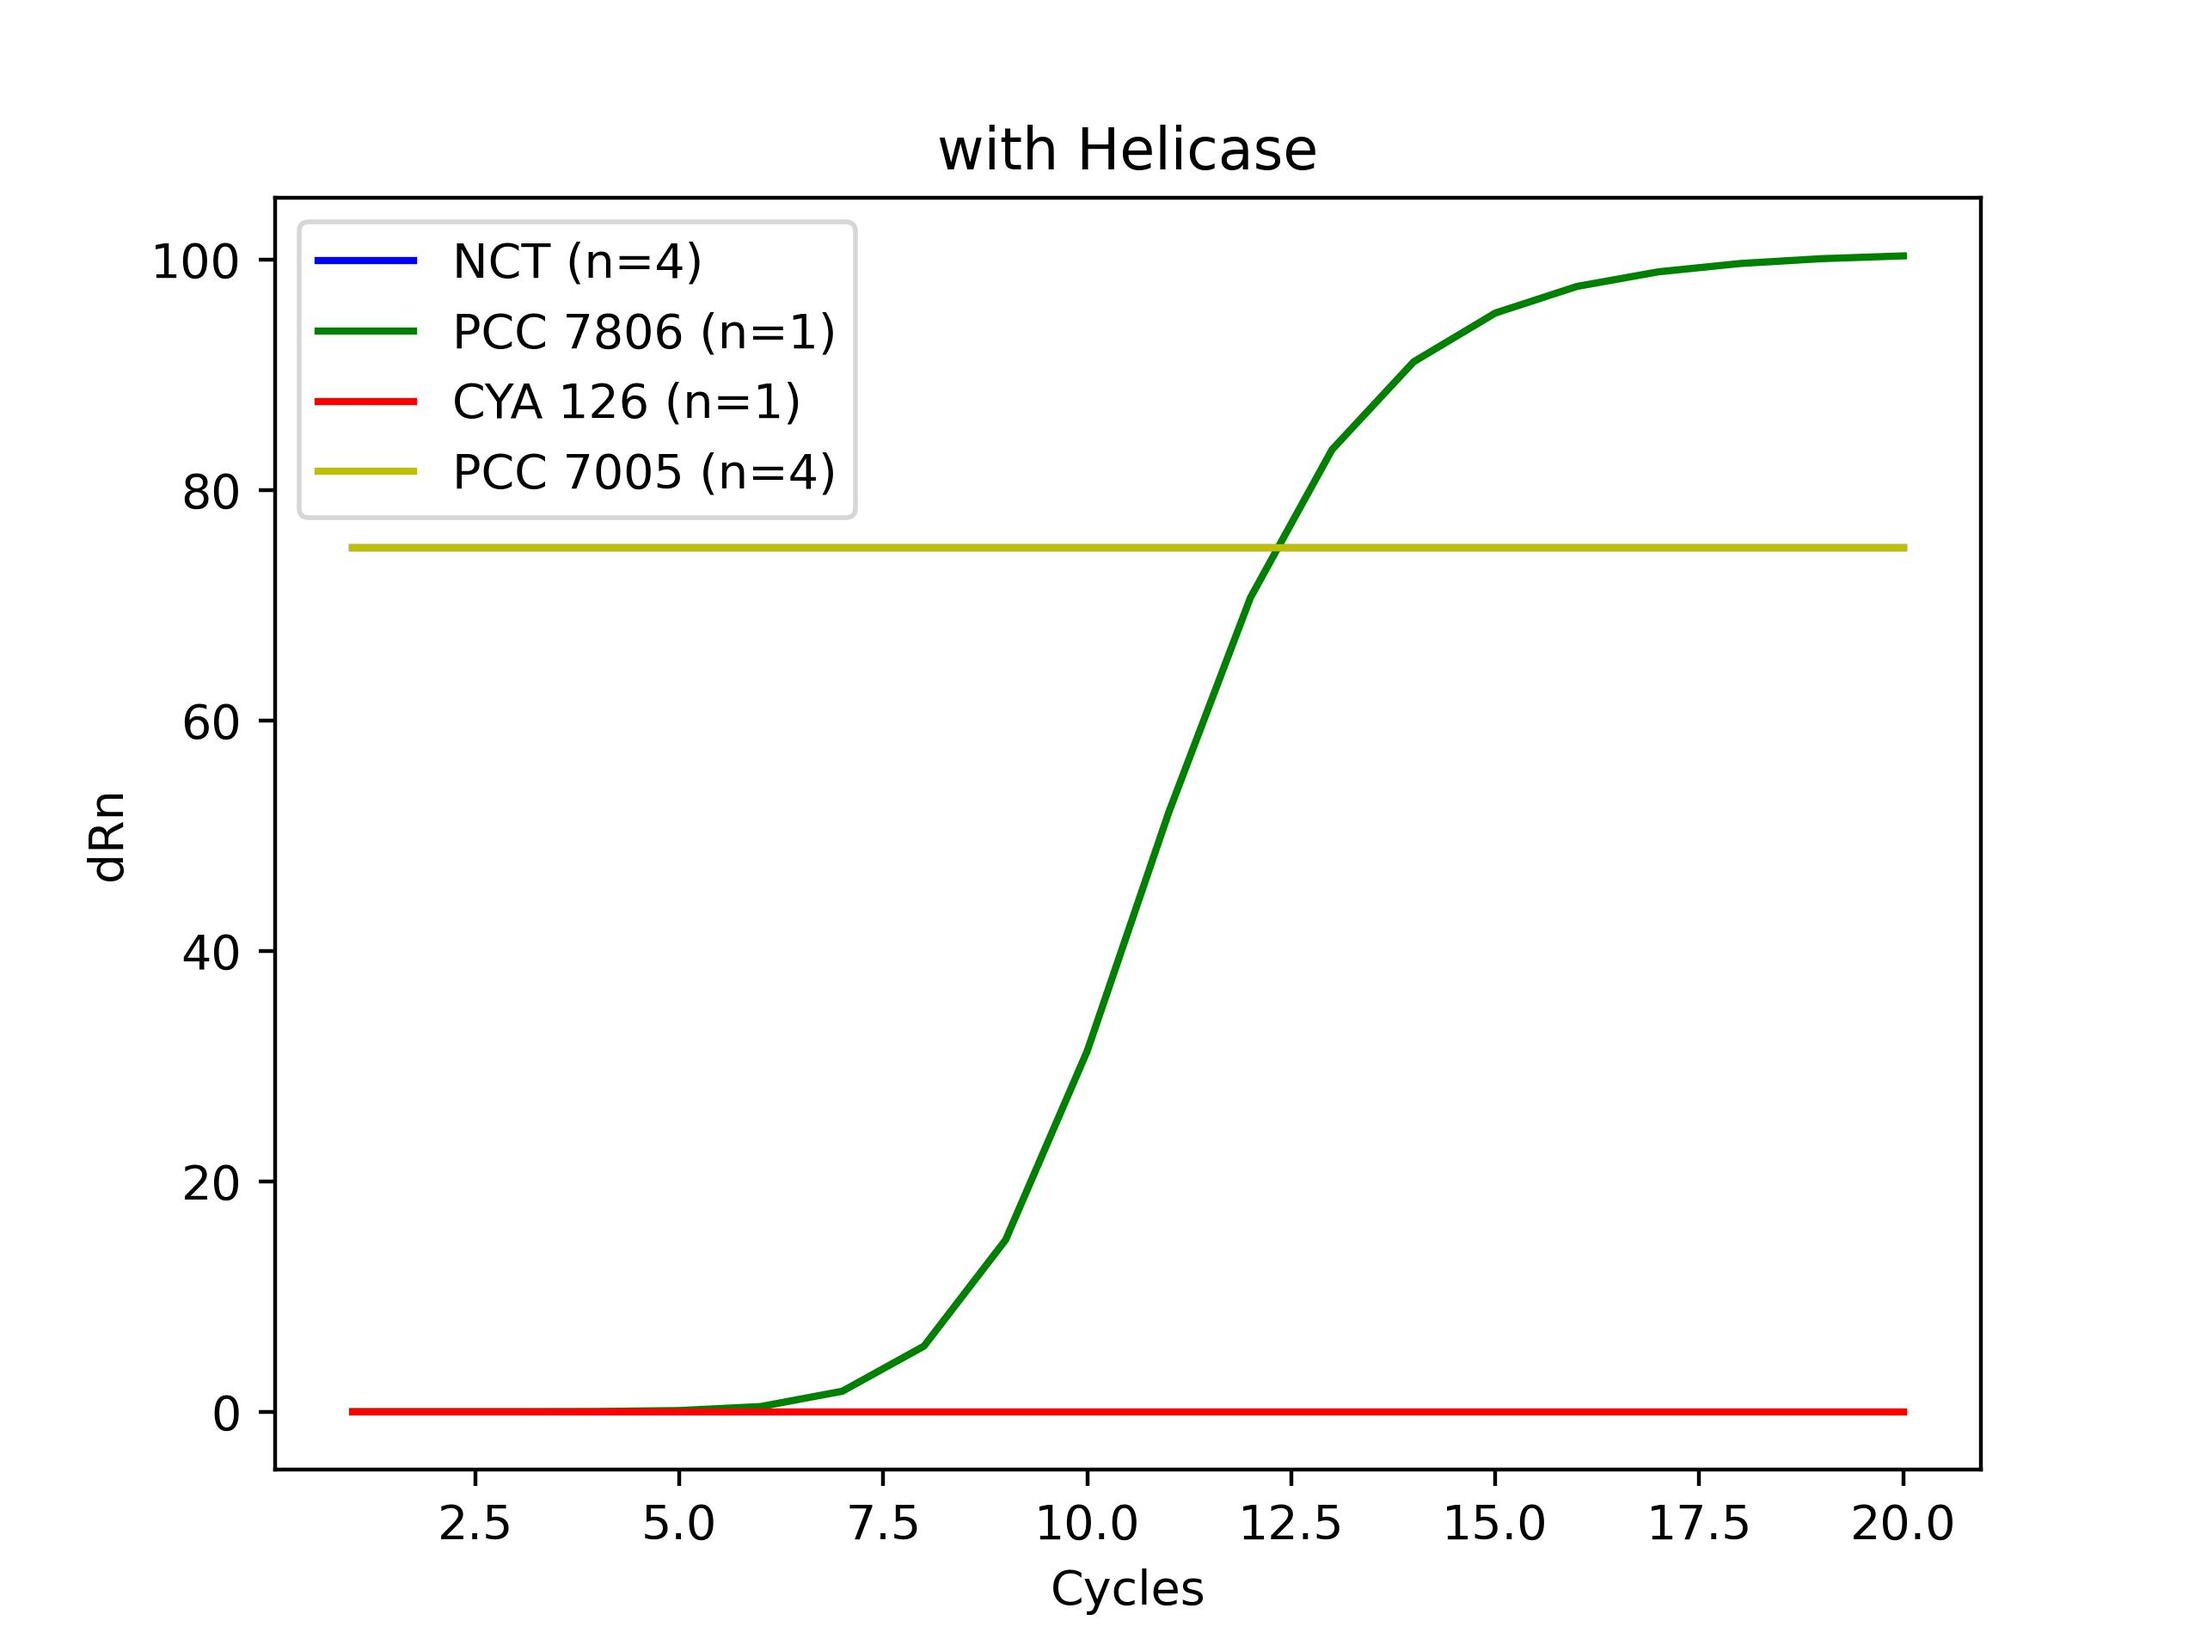
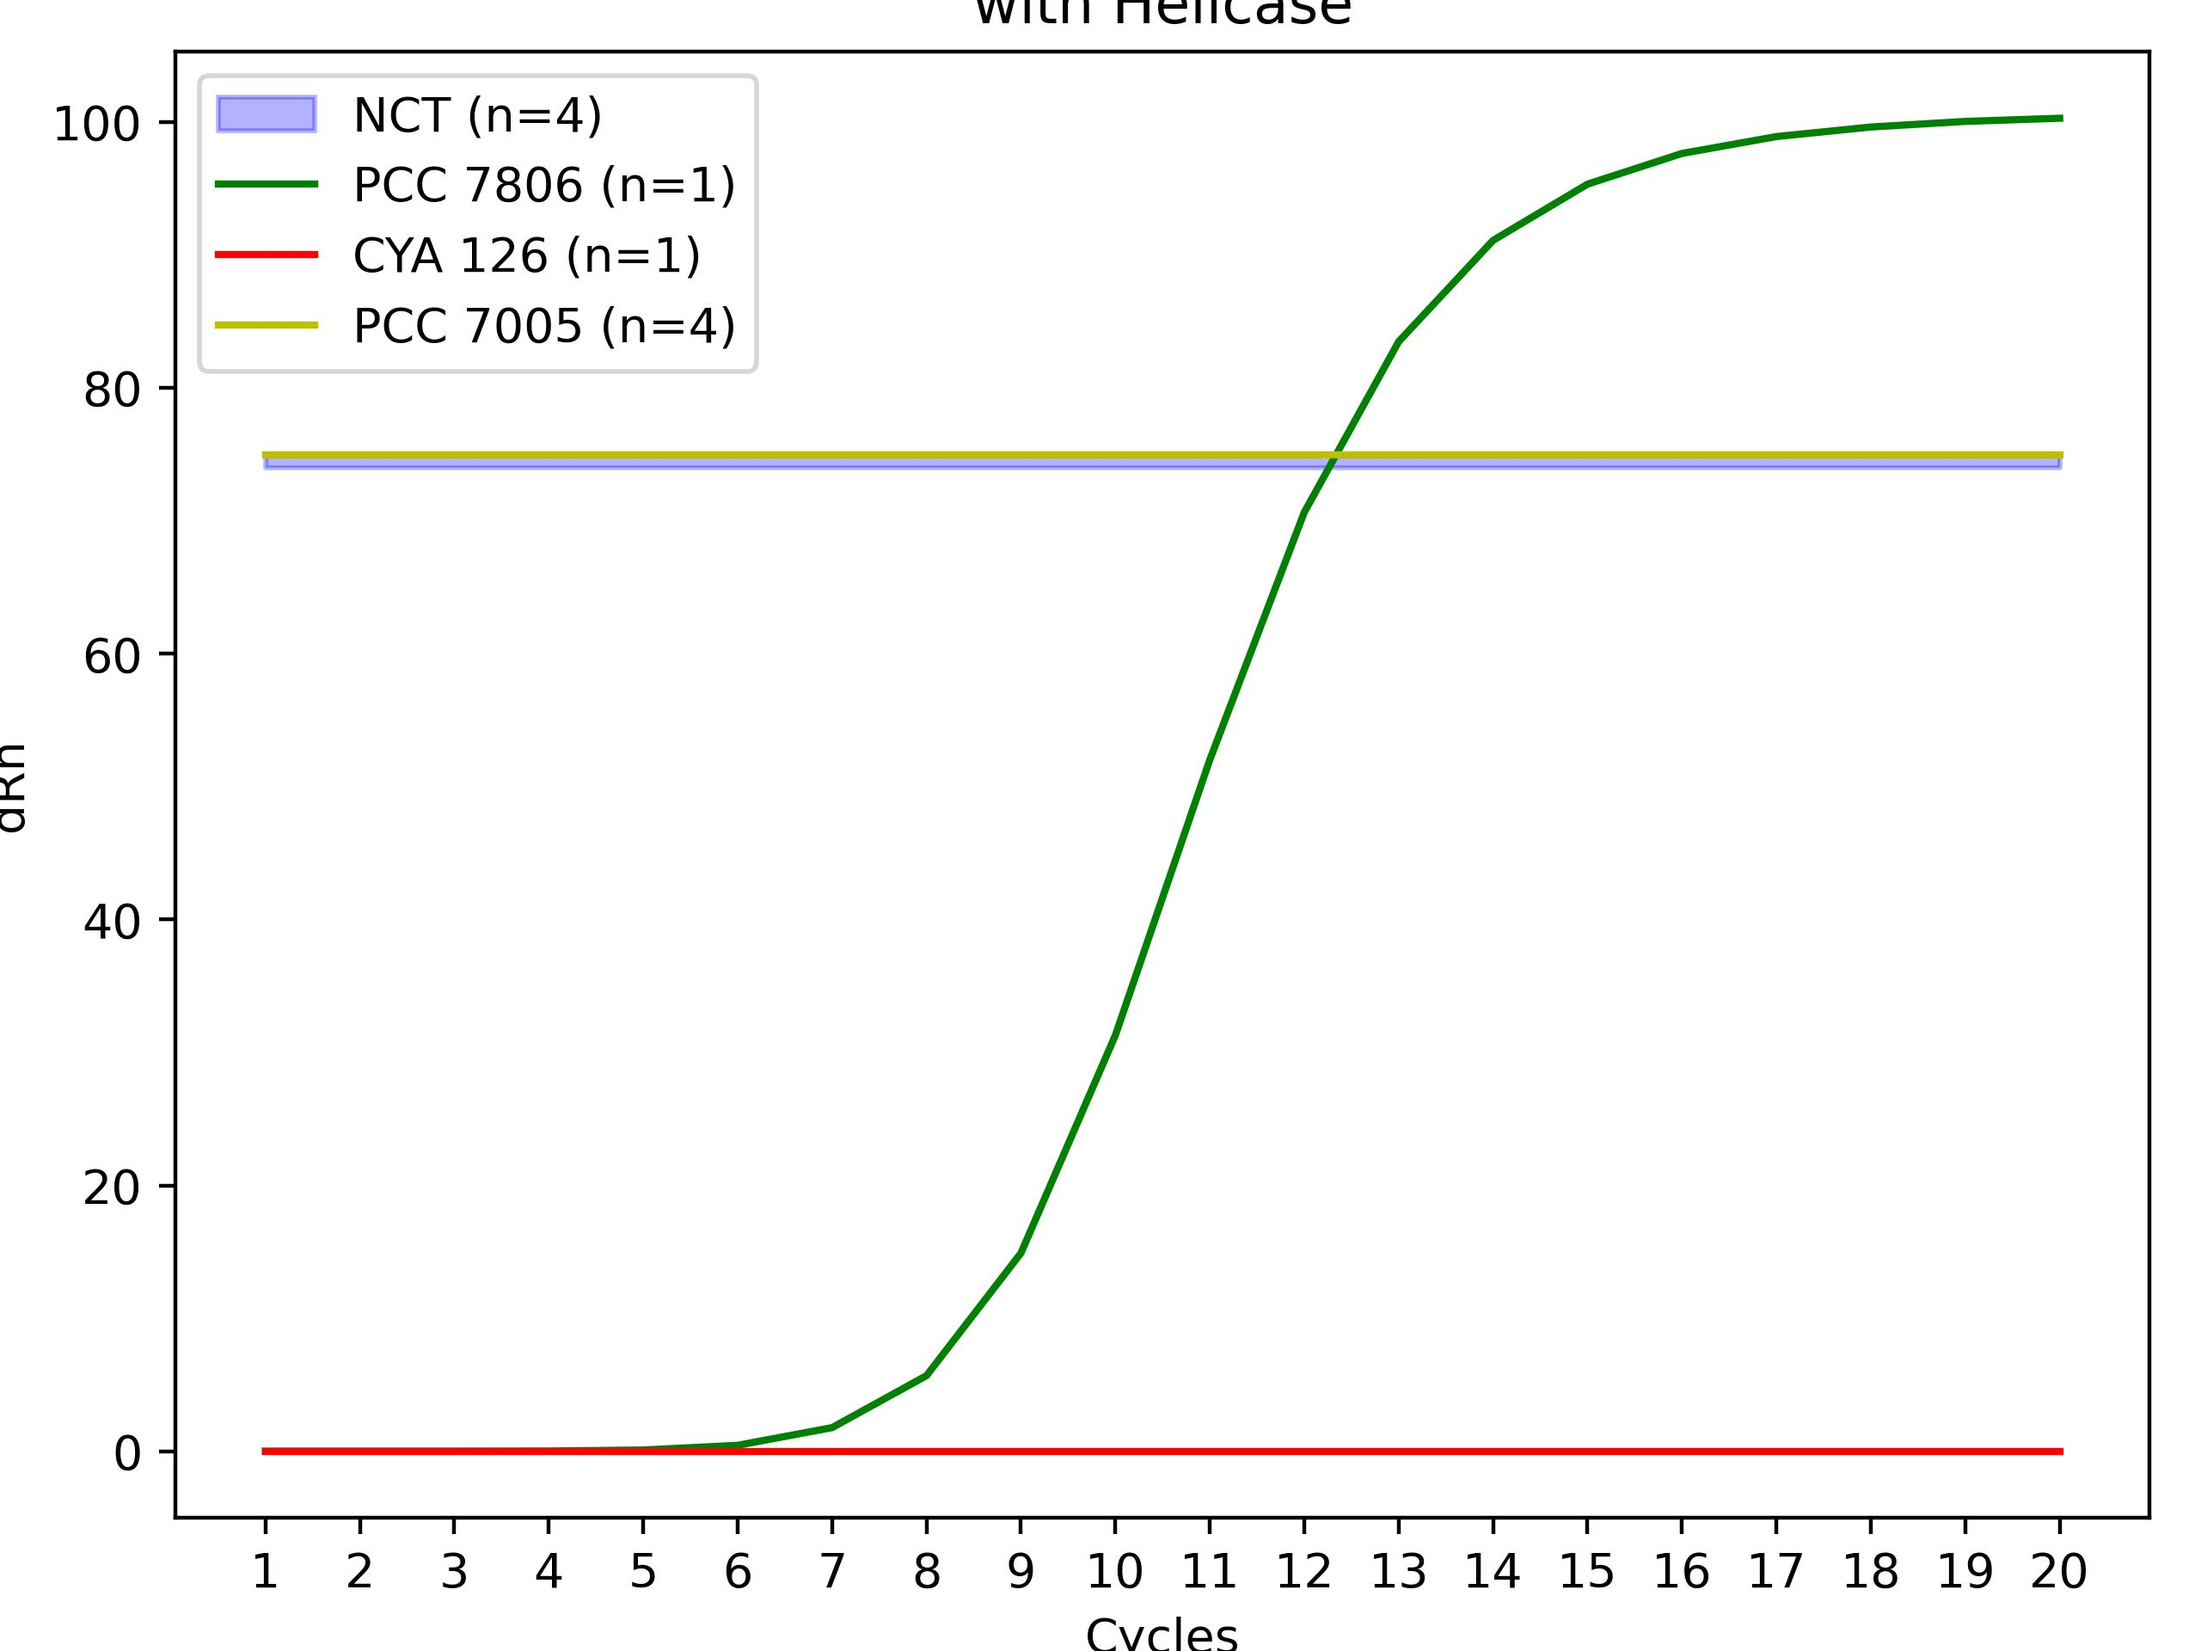
changed the nct style to make it show

diff --git a/withHelicace.py b/withHelicace.py
@@ -8,7 +8,8 @@ pcc_two=[75.00004217]*20
 
 x_achse = list (range(1, 21))
 #styling and plotting
-plt.plot(x_achse, nct, label ='NCT (n=4)', color = 'b')
+#plt.plot(x_achse, nct, label ='NCT (n=4)', color = 'b', linewidth=4)
+plt.fill_between(x_achse, nct, [val - 1 for val in nct], color='b', alpha=0.3, label='NCT (n=4)')
 plt.plot(x_achse, pcc_one, label ='PCC 7806 (n=1)', color = 'g')
 plt.plot(x_achse, cya, label ='CYA 126 (n=1)', color = 'r')
 plt.plot(x_achse, pcc_two, label ='PCC 7005 (n=4)', color = 'y')
